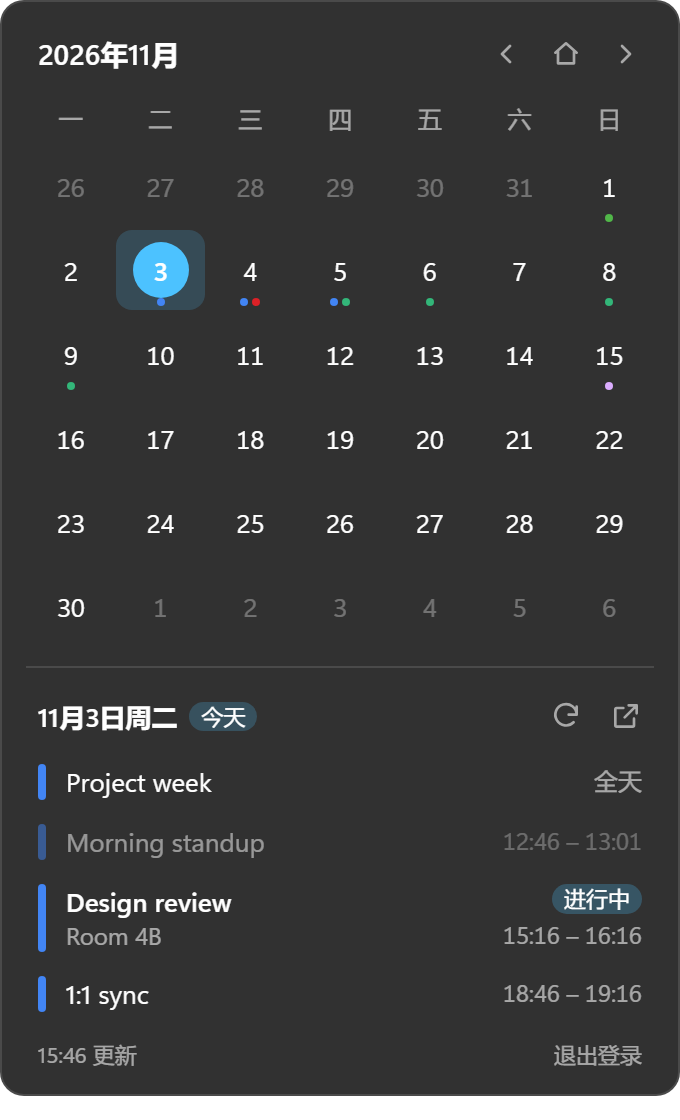
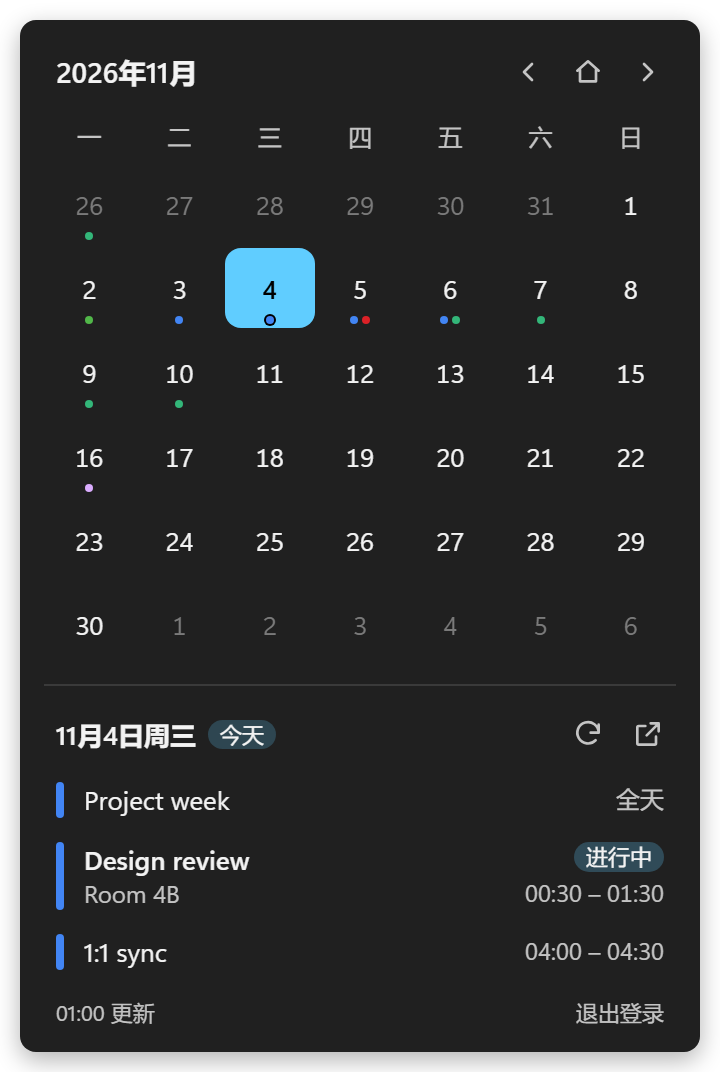
Follow the Seelen theme's popover colors in light and dark mode
- use the theme's shared .slu-std-popover class and --slu-std-* colors,
  like the built-in calendar popup, instead of a translucent
  --color-background mix
- the popover background is opaque, so there are no translucent layers
  to blend over the transparent window
- today/selected day states match the built-in calendar
- preview gets a stand-in for the theme's shared styles; screenshots
  and store images re-rendered

diff --git a/widget/index.css b/widget/index.css
@@ -1,37 +1,34 @@
-/* Seelen injects --color-background / --color-foreground / --color-accent from the
-   Windows theme; the fallbacks only apply outside Seelen. */
+/* Colors come from the active Seelen theme's shared popup variables (the same ones
+   the built-in calendar popup uses), which switch with light/dark mode. The popover
+   background, radius and shadow come from the theme's `.slu-std-popover` class; it is
+   opaque, so the transparent window needs no blending of translucent layers. */
 :root {
-  --ga-bg: color-mix(in srgb, var(--color-background, #1c1c1c) 92%, transparent);
-  --ga-fg: var(--color-foreground, #f3f3f3);
-  --ga-muted: color-mix(in srgb, var(--ga-fg) 58%, transparent);
-  --ga-faint: color-mix(in srgb, var(--ga-fg) 32%, transparent);
-  --ga-line: color-mix(in srgb, var(--ga-fg) 12%, transparent);
-  --ga-hover: color-mix(in srgb, var(--ga-fg) 8%, transparent);
-  --ga-accent: var(--color-accent, #4c8dff);
-  --ga-error: #ff8a80;
-  --ga-radius: 12px;
+  --ga-fg: var(--slu-std-fg-color);
+  --ga-muted: var(--slu-std-fg-secondary-color);
+  --ga-faint: var(--slu-std-fg-muted-color);
+  --ga-line: color-mix(in srgb, var(--slu-std-fg-color) 12%, transparent);
+  --ga-hover: var(--slu-std-ui-hover-overlay);
+  --ga-accent: var(--slu-std-ui-color);
+  --ga-on-accent: var(--slu-std-ui-fg-color);
+  --ga-error: light-dark(#c62828, #ff8a80);
 }
 
-html,
-body {
-  margin: 0;
-  background: transparent;
-  overflow: hidden;
-}
-
-/* The popup window is auto-sized to this element. */
+/* Sized to its content; the theme makes body transparent around a .slu-std-popover. */
 .ga-root {
-  box-sizing: border-box;
   display: flex;
   flex-direction: column;
   width: 340px;
   padding: 12px;
-  border-radius: var(--ga-radius);
-  border: 1px solid var(--ga-line);
-  background: var(--ga-bg);
   color: var(--ga-fg);
   font: 13px/1.35 "Segoe UI Variable Text", "Segoe UI", "Microsoft YaHei UI", system-ui, sans-serif;
   user-select: none;
+}
+
+.ga-root,
+.ga-root *,
+.ga-root *::before,
+.ga-root *::after {
+  box-sizing: border-box;
 }
 
 .ga-root *,
@@ -138,14 +135,24 @@ body {
   color: var(--ga-faint);
 }
 
-.ga-cell.is-selected {
-  background: color-mix(in srgb, var(--ga-accent) 18%, transparent);
+/* Same states as the built-in calendar popup: today in accent text, selection filled. */
+.ga-cell.is-today {
+  color: var(--ga-accent);
+  font-weight: 700;
 }
 
-.ga-cell.is-today > span:first-child {
+.ga-cell.is-selected {
   background: var(--ga-accent);
-  color: #fff;
+  color: var(--ga-on-accent);
   font-weight: 600;
+}
+
+.ga-cell.is-selected:hover {
+  background: var(--slu-std-ui-hover-color);
+}
+
+.ga-cell.is-selected .ga-mini-dot {
+  box-shadow: 0 0 0 1px var(--ga-on-accent);
 }
 
 .ga-dots {
@@ -332,7 +339,7 @@ body {
 .ga-btn-primary {
   border-color: transparent;
   background: var(--ga-accent);
-  color: #fff;
+  color: var(--ga-on-accent);
 }
 
 .ga-muted {

diff --git a/dev/theme-standin.css b/dev/theme-standin.css
@@ -1,0 +1,43 @@
+/* Preview-only stand-in for the parts of Seelen's default theme the widget relies on
+   (shared/index.scss: --slu-std-* variables and .slu-std-popover). Like the real theme
+   it lives in a cascade layer, so the widget's own CSS wins where both apply. */
+@layer theme-standin {
+  :root {
+    --slu-std-fg-color: light-dark(#1b1b1b, #f3f3f3);
+    --slu-std-fg-secondary-color: light-dark(#4a4a4a, #c4c4c4);
+    --slu-std-fg-muted-color: light-dark(#8a8a8a, #7a7a7a);
+    --slu-std-bg-color: light-dark(#f3f3f3, #202020);
+    --slu-std-ui-color: light-dark(#005fb8, #60cdff);
+    --slu-std-ui-fg-color: light-dark(#ffffff, #000000);
+    --slu-std-ui-hover-color: light-dark(#004c93, #99ebff);
+    --slu-std-ui-hover-overlay: oklch(from #0078d4 l c h / 0.2);
+  }
+
+  body {
+    margin: 0;
+    color: var(--slu-std-fg-color);
+    background-color: var(--slu-std-bg-color);
+  }
+
+  body:has(> div > .slu-std-popover) {
+    background-color: transparent;
+    overflow: hidden;
+
+    > #app {
+      width: min-content;
+      height: min-content;
+      overflow: hidden;
+    }
+  }
+
+  .slu-std-popover {
+    width: 300px;
+    max-height: 700px;
+    overflow: auto;
+    padding: 8px;
+    margin: 10px;
+    background-color: var(--slu-std-bg-color);
+    border-radius: 8px;
+    box-shadow: 0 4px 12px rgb(0 0 0 / 0.3);
+  }
+}

diff --git a/dev/store.html b/dev/store.html
@@ -16,6 +16,8 @@
         overflow: hidden;
         font-family: "Segoe UI Variable Display", "Segoe UI", "Microsoft YaHei UI", system-ui, sans-serif;
         color: #fff;
+        /* match the dark-mode frames, or Chromium paints an opaque iframe canvas */
+        color-scheme: dark;
       }
       .scene {
         position: relative;
@@ -43,14 +45,14 @@
       }
       iframe {
         position: absolute;
-        width: 342px;
-        height: 560px;
+        width: 362px;
+        height: 580px;
         border: 0;
         background: transparent;
         transform-origin: top left;
       }
       .shot iframe {
-        left: calc(50% - 342px * 0.8);
+        left: calc(50% - 362px * 0.8);
         top: 52px;
         transform: scale(1.6);
       }

diff --git a/dev/mock-lib/index.ts b/dev/mock-lib/index.ts
@@ -9,11 +9,8 @@ const scenario = params.get("scenario") ?? "agenda";
 const lang = params.get("lang") ?? "zh-CN";
 const theme = params.get("theme") ?? "dark";
 
-const vars =
-  theme === "light"
-    ? { "--color-background": "#f3f3f3", "--color-foreground": "#1b1b1b", "--color-accent": "#005fb8" }
-    : { "--color-background": "#202020", "--color-foreground": "#ffffff", "--color-accent": "#4cc2ff" };
-for (const [k, v] of Object.entries(vars)) document.documentElement.style.setProperty(k, v);
+// dev/theme-standin.css resolves its light-dark() colors from this, as Seelen's theme does.
+document.documentElement.style.colorScheme = theme === "light" ? "light" : "dark";
 
 // ------------------------------------------------------------------ data files
 

diff --git a/src/main.ts b/src/main.ts
@@ -483,7 +483,8 @@ function render(): void {
 
 // ---------------------------------------------------------------- boot
 
-await widget.init({ autoSizeByContent: document.getElementById("root") });
+// Size to the wrapper so the popover's margin (room for the theme's shadow) is included.
+await widget.init({ autoSizeByContent: document.getElementById("app") });
 render();
 
 // Each time the toolbar opens the popup, start from today and refresh if stale.

diff --git a/dev/frame.html b/dev/frame.html
@@ -2,10 +2,11 @@
 <html>
   <head>
     <meta charset="utf-8" />
+    <link rel="stylesheet" href="/dev/theme-standin.css" />
     <link rel="stylesheet" href="/widget/index.css" />
   </head>
   <body>
-    <div id="root" class="ga-root"></div>
+    <div id="app"><div id="root" class="ga-root slu-std-popover"></div></div>
     <script type="module" src="/dev/out/frame.js"></script>
   </body>
 </html>

diff --git a/dev/index.html b/dev/index.html
@@ -28,8 +28,8 @@
         opacity: 0.85;
       }
       iframe {
-        width: 342px;
-        height: 660px;
+        width: 362px;
+        height: 680px;
         border: 0;
         background: transparent;
       }

diff --git a/widget/index.html b/widget/index.html
@@ -1,1 +1,1 @@
-<div id="root" class="ga-root"></div>
+<div id="app"><div id="root" class="ga-root slu-std-popover"></div></div>

diff --git a/README.md b/README.md
@@ -4,7 +4,7 @@ English · [简体中文](README.zh-CN.md)
 
 A [Seelen UI](https://github.com/eythaann/Seelen-UI) widget that replaces the top-bar calendar popup with one that shows your **Google Calendar** events.
 
-<img src="docs/screenshot-en.png" alt="Calendar popup with Google Calendar events" width="340" />
+<img src="docs/screenshot-en.png" alt="Calendar popup with Google Calendar events" width="360" />
 
 Seelen UI's built-in calendar popup is a plain month view, and there is no Google Calendar integration in the Seelen resource store. This widget adds one.
 

diff --git a/README.zh-CN.md b/README.zh-CN.md
@@ -4,7 +4,7 @@
 
 一个 [Seelen UI](https://github.com/eythaann/Seelen-UI) 小组件：把顶栏点击日期弹出的日历，换成能显示 **Google 日历** 日程的版本。
 
-<img src="docs/screenshot-zh.png" alt="显示 Google 日历日程的日历弹窗" width="340" />
+<img src="docs/screenshot-zh.png" alt="显示 Google 日历日程的日历弹窗" width="360" />
 
 Seelen UI 自带的日历弹窗只是一个月历，Seelen 资源商店里也没有 Google 日历集成，所以做了这个。
 
